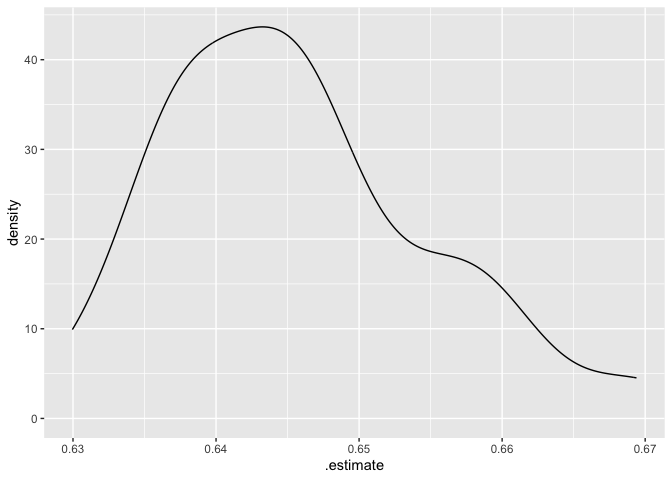
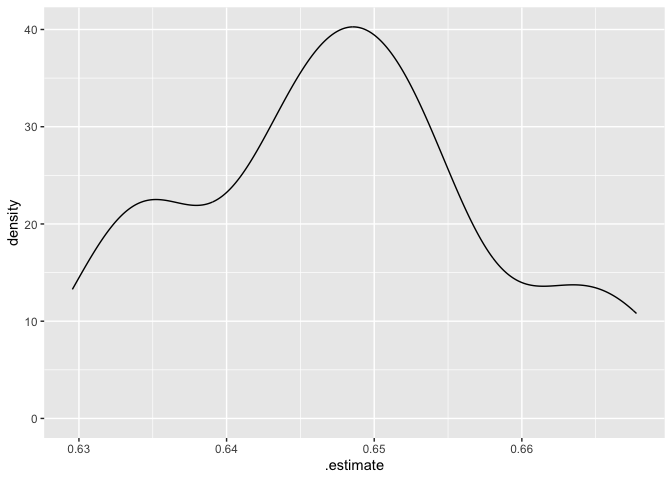
typos, etc.

diff --git a/scripts/03-validation-tuning.md b/scripts/03-validation-tuning.md
@@ -21,7 +21,6 @@ designated it as out of sample.
 The data that is used to generate our predictions is known as *training*
 data. The idea is that this is the data used to train our model, to let
 it know what the relationship is between our predictors and our outcome.
-So far, we have worked mostly with training data.
 
 That data that is used to validate our predictions is known as *testing*
 data. With testing data, we take our trained model and see how good it
@@ -30,15 +29,15 @@ is at predicting outcomes using out of sample data.
 One very simple approach to this would be to cut our data in two parts.
 This is what we’ve done so far. We could then train our model on one
 part of the data, then test it on the other part. This would tell us
-whether our measure of model fit (e.g. rmse, auc) is similar or
-different when we apply our model to out of sample data.
+whether our measure of model fit (e.g. rmse) is similar or different
+when we apply our model to out of sample data.
 
 But this would only be a “one-shot” approach. It would be better to do
 this multiple times, cutting the data into two parts: , then fitting the
 model to the training data, and then checking its predictions against
 the validation data set. That way, we could generate a large number of
-rmse’s to see how well the model fits on lots of different possible
-out-of-sample predictions.
+measures of accuracy to see how well the model fits on lots of different
+possible out-of-sample predictions.
 
 This process is called *cross validation*, and it involves two important
 decisions: first, how will the data be cut, and second,how many times
@@ -53,8 +52,8 @@ training and testing sets, ensuring that the evaluation of model fit in
 the testing dataset isn’t unduly affected by a single “draw” of the
 testing data.
 
-The code below will generate a resampled dataset using Monte Carlo
-resampling.
+We’ll get everything set up for modeling in the hsls data before
+structuring the data for resampling.
 
 ``` r
 library(tidyverse)
@@ -89,7 +88,7 @@ library(tidymodels)
     ## ✖ dplyr::lag()      masks stats::lag()
     ## ✖ yardstick::spec() masks readr::spec()
     ## ✖ recipes::step()   masks stats::step()
-    ## • Search for functions across packages at https://www.tidymodels.org/find/
+    ## • Use suppressPackageStartupMessages() to eliminate package startup messages
 
 ``` r
 library(janitor)
@@ -160,9 +159,14 @@ lasso_fit<-
   set_mode("regression")
 ```
 
+The code below will generate a resampled dataset using Monte Carlo
+resampling. The default is to split it 75/25, with 25 replications.
+
 ``` r
 hs_rs<-mc_cv(hs_train,times=25) ## More like 1000 in practice
 ```
+
+Set the workflow, as usual.
 
 ``` r
 hs_wf<-workflow()%>%
@@ -187,8 +191,8 @@ hs_lasso_fit%>%collect_metrics()
     ## # A tibble: 2 × 6
     ##   .metric .estimator  mean     n std_err .config             
     ##   <chr>   <chr>      <dbl> <int>   <dbl> <chr>               
-    ## 1 rmse    standard   0.646    25 0.00186 Preprocessor1_Model1
-    ## 2 rsq     standard   0.336    25 0.00235 Preprocessor1_Model1
+    ## 1 rmse    standard   0.648    25 0.00208 Preprocessor1_Model1
+    ## 2 rsq     standard   0.339    25 0.00238 Preprocessor1_Model1
 
 We can also pull certain metrics like rmse one at a time if we want.
 
@@ -252,7 +256,7 @@ hs_lasso_tune_fit <-
     ## → A | warning: A correlation computation is required, but `estimate` is constant and has 0
     ##                standard deviation, resulting in a divide by 0 error. `NA` will be returned.
 
-    ## There were issues with some computations   A: x1There were issues with some computations   A: x2There were issues with some computations   A: x3There were issues with some computations   A: x4There were issues with some computations   A: x6There were issues with some computations   A: x7There were issues with some computations   A: x9There were issues with some computations   A: x10There were issues with some computations   A: x11There were issues with some computations   A: x12There were issues with some computations   A: x14There were issues with some computations   A: x15There were issues with some computations   A: x17There were issues with some computations   A: x18There were issues with some computations   A: x20There were issues with some computations   A: x21There were issues with some computations   A: x23There were issues with some computations   A: x24There were issues with some computations   A: x25
+    ## There were issues with some computations   A: x1There were issues with some computations   A: x2There were issues with some computations   A: x4There were issues with some computations   A: x5There were issues with some computations   A: x6There were issues with some computations   A: x8There were issues with some computations   A: x9There were issues with some computations   A: x11There were issues with some computations   A: x12There were issues with some computations   A: x13There were issues with some computations   A: x14There were issues with some computations   A: x16There were issues with some computations   A: x17There were issues with some computations   A: x19There were issues with some computations   A: x20There were issues with some computations   A: x21There were issues with some computations   A: x22There were issues with some computations   A: x24There were issues with some computations   A: x25There were issues with some computations   A: x25
 
 ## Examine Results
 
@@ -268,16 +272,16 @@ hs_lasso_tune_fit%>%
     ## # A tibble: 10 × 7
     ##          penalty .metric .estimator  mean     n std_err .config              
     ##            <dbl> <chr>   <chr>      <dbl> <int>   <dbl> <chr>                
-    ##  1 0.000464      rmse    standard   0.604    25 0.00133 Preprocessor1_Model07
-    ##  2 0.0000000001  rmse    standard   0.604    25 0.00133 Preprocessor1_Model01
-    ##  3 0.00000000129 rmse    standard   0.604    25 0.00133 Preprocessor1_Model02
-    ##  4 0.0000000167  rmse    standard   0.604    25 0.00133 Preprocessor1_Model03
-    ##  5 0.000000215   rmse    standard   0.604    25 0.00133 Preprocessor1_Model04
-    ##  6 0.00000278    rmse    standard   0.604    25 0.00133 Preprocessor1_Model05
-    ##  7 0.0000359     rmse    standard   0.604    25 0.00133 Preprocessor1_Model06
-    ##  8 0.00599       rmse    standard   0.604    25 0.00135 Preprocessor1_Model08
-    ##  9 0.0774        rmse    standard   0.635    25 0.00175 Preprocessor1_Model09
-    ## 10 1             rmse    standard   0.780    25 0.00212 Preprocessor1_Model10
+    ##  1 0.000464      rmse    standard   0.607    25 0.00201 Preprocessor1_Model07
+    ##  2 0.0000000001  rmse    standard   0.607    25 0.00201 Preprocessor1_Model01
+    ##  3 0.00000000129 rmse    standard   0.607    25 0.00201 Preprocessor1_Model02
+    ##  4 0.0000000167  rmse    standard   0.607    25 0.00201 Preprocessor1_Model03
+    ##  5 0.000000215   rmse    standard   0.607    25 0.00201 Preprocessor1_Model04
+    ##  6 0.00000278    rmse    standard   0.607    25 0.00201 Preprocessor1_Model05
+    ##  7 0.0000359     rmse    standard   0.607    25 0.00201 Preprocessor1_Model06
+    ##  8 0.00599       rmse    standard   0.607    25 0.00201 Preprocessor1_Model08
+    ##  9 0.0774        rmse    standard   0.637    25 0.00207 Preprocessor1_Model09
+    ## 10 1             rmse    standard   0.784    25 0.00207 Preprocessor1_Model10
 
 ## Completing the workflow
 
@@ -320,9 +324,11 @@ metrics(truth = x3tgpatot, estimate = .pred)
     ## # A tibble: 3 × 3
     ##   .metric .estimator .estimate
     ##   <chr>   <chr>          <dbl>
-    ## 1 rmse    standard       0.604
-    ## 2 rsq     standard       0.384
-    ## 3 mae     standard       0.473
+    ## 1 rmse    standard       0.600
+    ## 2 rsq     standard       0.377
+    ## 3 mae     standard       0.472
+
+This represents a completed workflow– the parameters
 
 ## K-fold Cross Validation
 
@@ -364,7 +370,7 @@ hs_lasso_tune_fit <-
     ## → A | warning: A correlation computation is required, but `estimate` is constant and has 0
     ##                standard deviation, resulting in a divide by 0 error. `NA` will be returned.
 
-    ## There were issues with some computations   A: x1There were issues with some computations   A: x3There were issues with some computations   A: x4There were issues with some computations   A: x5There were issues with some computations   A: x7There were issues with some computations   A: x8There were issues with some computations   A: x9There were issues with some computations   A: x10
+    ## There were issues with some computations   A: x1There were issues with some computations   A: x3There were issues with some computations   A: x4There were issues with some computations   A: x6There were issues with some computations   A: x7There were issues with some computations   A: x9There were issues with some computations   A: x10
 
 ## Examine Results
 
@@ -381,16 +387,16 @@ hs_lasso_tune_fit%>%
     ## # A tibble: 10 × 7
     ##          penalty .metric .estimator  mean     n std_err .config              
     ##            <dbl> <chr>   <chr>      <dbl> <int>   <dbl> <chr>                
-    ##  1 0.000464      rmse    standard   0.606    10 0.00674 Preprocessor1_Model07
-    ##  2 0.0000000001  rmse    standard   0.606    10 0.00674 Preprocessor1_Model01
-    ##  3 0.00000000129 rmse    standard   0.606    10 0.00674 Preprocessor1_Model02
-    ##  4 0.0000000167  rmse    standard   0.606    10 0.00674 Preprocessor1_Model03
-    ##  5 0.000000215   rmse    standard   0.606    10 0.00674 Preprocessor1_Model04
-    ##  6 0.00000278    rmse    standard   0.606    10 0.00674 Preprocessor1_Model05
-    ##  7 0.0000359     rmse    standard   0.606    10 0.00674 Preprocessor1_Model06
-    ##  8 0.00599       rmse    standard   0.607    10 0.00683 Preprocessor1_Model08
-    ##  9 0.0774        rmse    standard   0.638    10 0.00793 Preprocessor1_Model09
-    ## 10 1             rmse    standard   0.781    10 0.00878 Preprocessor1_Model10
+    ##  1 0.000464      rmse    standard   0.608    10 0.00520 Preprocessor1_Model07
+    ##  2 0.0000000001  rmse    standard   0.608    10 0.00520 Preprocessor1_Model01
+    ##  3 0.00000000129 rmse    standard   0.608    10 0.00520 Preprocessor1_Model02
+    ##  4 0.0000000167  rmse    standard   0.608    10 0.00520 Preprocessor1_Model03
+    ##  5 0.000000215   rmse    standard   0.608    10 0.00520 Preprocessor1_Model04
+    ##  6 0.00000278    rmse    standard   0.608    10 0.00520 Preprocessor1_Model05
+    ##  7 0.0000359     rmse    standard   0.608    10 0.00520 Preprocessor1_Model06
+    ##  8 0.00599       rmse    standard   0.608    10 0.00517 Preprocessor1_Model08
+    ##  9 0.0774        rmse    standard   0.638    10 0.00589 Preprocessor1_Model09
+    ## 10 1             rmse    standard   0.784    10 0.00730 Preprocessor1_Model10
 
 ## Ridge Regression
 
@@ -438,16 +444,16 @@ hs_ridge_tune_fit%>%
     ## # A tibble: 10 × 7
     ##          penalty .metric .estimator  mean     n std_err .config              
     ##            <dbl> <chr>   <chr>      <dbl> <int>   <dbl> <chr>                
-    ##  1 0.0000000001  rmse    standard   0.604    25 0.00136 Preprocessor1_Model01
-    ##  2 0.00000000129 rmse    standard   0.604    25 0.00136 Preprocessor1_Model02
-    ##  3 0.0000000167  rmse    standard   0.604    25 0.00136 Preprocessor1_Model03
-    ##  4 0.000000215   rmse    standard   0.604    25 0.00136 Preprocessor1_Model04
-    ##  5 0.00000278    rmse    standard   0.604    25 0.00136 Preprocessor1_Model05
-    ##  6 0.0000359     rmse    standard   0.604    25 0.00136 Preprocessor1_Model06
-    ##  7 0.000464      rmse    standard   0.604    25 0.00136 Preprocessor1_Model07
-    ##  8 0.00599       rmse    standard   0.604    25 0.00136 Preprocessor1_Model08
-    ##  9 0.0774        rmse    standard   0.604    25 0.00139 Preprocessor1_Model09
-    ## 10 1             rmse    standard   0.640    25 0.00173 Preprocessor1_Model10
+    ##  1 0.0000000001  rmse    standard   0.607    25 0.00200 Preprocessor1_Model01
+    ##  2 0.00000000129 rmse    standard   0.607    25 0.00200 Preprocessor1_Model02
+    ##  3 0.0000000167  rmse    standard   0.607    25 0.00200 Preprocessor1_Model03
+    ##  4 0.000000215   rmse    standard   0.607    25 0.00200 Preprocessor1_Model04
+    ##  5 0.00000278    rmse    standard   0.607    25 0.00200 Preprocessor1_Model05
+    ##  6 0.0000359     rmse    standard   0.607    25 0.00200 Preprocessor1_Model06
+    ##  7 0.000464      rmse    standard   0.607    25 0.00200 Preprocessor1_Model07
+    ##  8 0.00599       rmse    standard   0.607    25 0.00200 Preprocessor1_Model08
+    ##  9 0.0774        rmse    standard   0.608    25 0.00200 Preprocessor1_Model09
+    ## 10 1             rmse    standard   0.643    25 0.00210 Preprocessor1_Model10
 
 ``` r
 best_ridge_penalty<-select_best(hs_ridge_tune_fit)
@@ -471,55 +477,56 @@ hs_ridge_result%>%extract_fit_parsnip()%>%tidy()%>%
   arrange(-abs(estimate))%>%print(n=50)
 ```
 
-    ## # A tibble: 49 × 3
+    ## # A tibble: 50 × 3
     ##    term                                                     estimate     penalty
     ##    <chr>                                                       <dbl>       <dbl>
-    ##  1 (Intercept)                                              2.94           1e-10
-    ##  2 x1txmtscor                                               0.324          1e-10
+    ##  1 (Intercept)                                              2.93           1e-10
+    ##  2 x1txmtscor                                               0.323          1e-10
     ##  3 x1schooleng                                              0.113          1e-10
-    ##  4 x1stuedexpct_High.school.diploma.or.GED                 -0.0713         1e-10
-    ##  5 x1control_Public                                        -0.0657         1e-10
-    ##  6 x1famincome_Family.income....15.000.and.....35.000      -0.0553         1e-10
-    ##  7 x1famincome_Family.income.less.than.or.equal.to..15.000 -0.0534         1e-10
-    ##  8 x1locale_Rural                                           0.0413         1e-10
-    ##  9 x1hhnumber_X4.Household.members                          0.0345         1e-10
-    ## 10 x1par1edu_Bachelor.s.degree                              0.0343         1e-10
-    ## 11 x1region_South                                          -0.0326         1e-10
-    ## 12 x1locale_Town                                            0.0322         1e-10
-    ## 13 x1stuedexpct_Complete.a.Master.s.degree                  0.0298         1e-10
-    ## 14 x1stuedexpct_other                                      -0.0276         1e-10
-    ## 15 x1stuedexpct_Complete.an.Associate.s.degree             -0.0259         1e-10
-    ## 16 x1region_Northeast                                      -0.0249         1e-10
-    ## 17 x1par1edu_Master.s.degree                                0.0242         1e-10
-    ## 18 x1stuedexpct_Don.t.know                                 -0.0239         1e-10
-    ## 19 x1hhnumber_X5.Household.members                          0.0236         1e-10
-    ## 20 x1hhnumber_X8.Household.members                          0.0234         1e-10
-    ## 21 x1par1edu_Less.than.high.school                         -0.0213         1e-10
-    ## 22 x1famincome_Family.income....35.000.and.....55.000      -0.0191         1e-10
-    ## 23 x1famincome_Unit.non.response                           -0.0178         1e-10
-    ## 24 x1stuedexpct_Complete.Ph.D.M.D.Law.other.prof.degree     0.0178         1e-10
-    ## 25 x1par1emp_P1.not.currently.working.for.pay              -0.0170         1e-10
-    ## 26 x1par1emp_Unit.non.response                             -0.0170         1e-10
-    ## 27 x1par1edu_Unit.non.response                             -0.0167         1e-10
-    ## 28 x1par1edu_High.school.diploma.or.GED                    -0.0153         1e-10
-    ## 29 x1hhnumber_X6.Household.members                          0.0152         1e-10
-    ## 30 x1hhnumber_Unit.non.response                            -0.0148         1e-10
-    ## 31 x1par1emp_P1.currently.working.PT...35.hrs.wk.           0.0148         1e-10
-    ## 32 x1iepflag_Student.has.no.IEP                             0.0144         1e-10
-    ## 33 x1hhnumber_X7.Household.members                          0.0122         1e-10
-    ## 34 x1region_West                                           -0.0109         1e-10
-    ## 35 x1par1edu_Ph.D.M.D.Law.other.high.lvl.prof.degree        0.0101         1e-10
-    ## 36 x1famincome_Family.income....195.000.and.....215.000     0.00988        1e-10
-    ## 37 x1famincome_Family.income....95.000.and.....115.000      0.00901        1e-10
-    ## 38 x1iepflag_Student.has.an.IEP                             0.00829        1e-10
-    ## 39 x1par1emp_P1.has.never.worked.for.pay                   -0.00812        1e-10
-    ## 40 x1hhnumber_X3.Household.members                          0.00738        1e-10
-    ## 41 x1hhnumber_other                                        -0.00665        1e-10
-    ## 42 x1famincome_Family.income....55.000.and.....75.000       0.00652        1e-10
-    ## 43 x1famincome_Family.income....75.000.and.....95.000       0.00652        1e-10
-    ## 44 x1famincome_Family.income....155.000.and....175.000      0.00564        1e-10
-    ## 45 x1famincome_Family.income....135.000.and.....155.000     0.00414        1e-10
-    ## 46 x1famincome_Family.income....235.000                     0.00395        1e-10
-    ## 47 x1locale_Suburb                                         -0.00314        1e-10
-    ## 48 x1famincome_Family.income....175.000.and.....195.000     0.00252        1e-10
-    ## 49 x1famincome_other                                       -0.000920       1e-10
+    ##  4 x1stuedexpct_High.school.diploma.or.GED                 -0.0763         1e-10
+    ##  5 x1control_Public                                        -0.0650         1e-10
+    ##  6 x1famincome_Family.income....15.000.and.....35.000      -0.0496         1e-10
+    ##  7 x1famincome_Family.income.less.than.or.equal.to..15.000 -0.0479         1e-10
+    ##  8 x1locale_Rural                                           0.0465         1e-10
+    ##  9 x1region_South                                          -0.0376         1e-10
+    ## 10 x1hhnumber_X4.Household.members                          0.0353         1e-10
+    ## 11 x1par1edu_Bachelor.s.degree                              0.0341         1e-10
+    ## 12 x1stuedexpct_Complete.a.Master.s.degree                  0.0301         1e-10
+    ## 13 x1stuedexpct_Complete.an.Associate.s.degree             -0.0280         1e-10
+    ## 14 x1locale_Town                                            0.0279         1e-10
+    ## 15 x1par1edu_Master.s.degree                                0.0272         1e-10
+    ## 16 x1region_Northeast                                      -0.0265         1e-10
+    ## 17 x1famincome_Family.income....35.000.and.....55.000      -0.0248         1e-10
+    ## 18 x1stuedexpct_Don.t.know                                 -0.0228         1e-10
+    ## 19 x1par1edu_Less.than.high.school                         -0.0219         1e-10
+    ## 20 x1stuedexpct_other                                      -0.0198         1e-10
+    ## 21 x1stuedexpct_Complete.Ph.D.M.D.Law.other.prof.degree     0.0184         1e-10
+    ## 22 x1iepflag_Student.has.no.IEP                             0.0180         1e-10
+    ## 23 x1par1emp_P1.currently.working.PT...35.hrs.wk.           0.0179         1e-10
+    ## 24 x1hhnumber_X5.Household.members                          0.0173         1e-10
+    ## 25 x1famincome_Unit.non.response                           -0.0173         1e-10
+    ## 26 x1hhnumber_X6.Household.members                          0.0166         1e-10
+    ## 27 x1par1emp_Unit.non.response                             -0.0162         1e-10
+    ## 28 x1par1edu_Unit.non.response                             -0.0161         1e-10
+    ## 29 x1hhnumber_X8.Household.members                          0.0158         1e-10
+    ## 30 x1region_West                                           -0.0157         1e-10
+    ## 31 x1hhnumber_Unit.non.response                            -0.0139         1e-10
+    ## 32 x1par1emp_P1.not.currently.working.for.pay              -0.0127         1e-10
+    ## 33 x1par1edu_Ph.D.M.D.Law.other.high.lvl.prof.degree        0.0127         1e-10
+    ## 34 x1hhnumber_X3.Household.members                          0.0125         1e-10
+    ## 35 x1par1edu_High.school.diploma.or.GED                    -0.0123         1e-10
+    ## 36 x1famincome_Family.income....195.000.and.....215.000     0.0114         1e-10
+    ## 37 x1hhnumber_X7.Household.members                          0.0110         1e-10
+    ## 38 x1hhnumber_other                                        -0.0110         1e-10
+    ## 39 x1famincome_Family.income....95.000.and.....115.000      0.0104         1e-10
+    ## 40 x1famincome_Family.income....75.000.and.....95.000       0.00787        1e-10
+    ## 41 x1iepflag_Student.has.an.IEP                            -0.00738        1e-10
+    ## 42 x1stuedexpct_Start.a.Master.s.degree                    -0.00647        1e-10
+    ## 43 x1famincome_Family.income....55.000.and.....75.000       0.00449        1e-10
+    ## 44 x1famincome_Family.income....235.000                     0.00424        1e-10
+    ## 45 x1locale_Suburb                                         -0.00386        1e-10
+    ## 46 x1famincome_Family.income....135.000.and.....155.000     0.00306        1e-10
+    ## 47 x1par1emp_P1.has.never.worked.for.pay                   -0.00125        1e-10
+    ## 48 x1famincome_Family.income....175.000.and.....195.000     0.000985       1e-10
+    ## 49 x1famincome_Family.income....155.000.and....175.000      0.000707       1e-10
+    ## 50 x1famincome_other                                       -0.000633       1e-10
